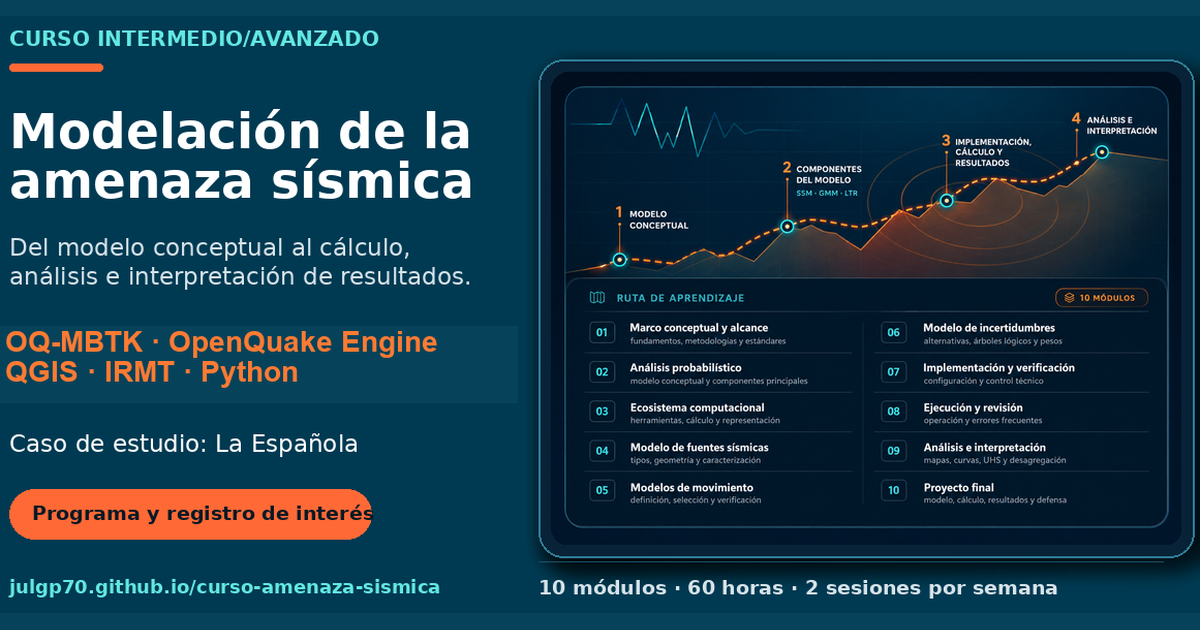
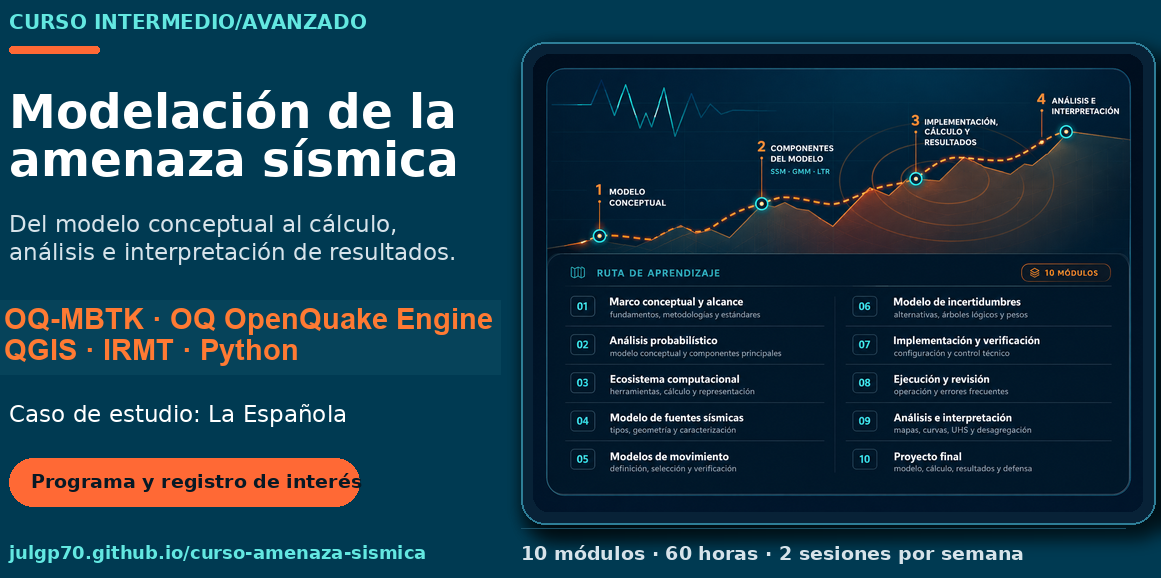
Prueba de sincronización con repositorio público joseghevia/haz_oq_rd@af8c8b0d50331897a41e4e679f7b26c28b6942ab

diff --git a/privacidad-y-cookies.html b/privacidad-y-cookies.html
@@ -12,7 +12,7 @@
   <title>Privacidad y cookies · Amenaza Sísmica</title>
   <link rel="stylesheet" href="css/styles.css?v=742fde1e8013">
 </head>
-<body class="legal-page" data-site-version="26_REVISION_FINAL_GEM_PRIVACIDAD_PRECONTRACTUAL">
+<body class="legal-page" data-site-version="24_PRIVACIDAD_IUBENDA_SERVICIOS_CONSENTIMIENTO">
 <a class="skip-link" href="#contenido">Saltar al contenido</a>
 <header class="legal-page-header">
   <div class="container legal-page-nav">
@@ -27,7 +27,7 @@
   <article class="container legal-document">
     <p class="kicker">Información legal</p>
     <h1>Privacidad y cookies</h1>
-    <p class="legal-updated"><span>Última actualización: 20 de julio de 2026</span><span class="legal-version">Versión: 2026-07-20-v1.2</span></p>
+    <p class="legal-updated"><span>Última actualización: 18 de julio de 2026</span><span class="legal-version">Versión: 2026-07-18-v1.1</span></p>
 <section>
   <h2>1. Responsable del tratamiento</h2>
   <p><strong>Julio Antonio García Peláez</strong>, profesional independiente con domicilio profesional en Trieste, Italia, P. IVA 01429970328, actividad 74.90.93 — Altre attività di consulenza tecnica n.c.a..</p>
@@ -36,35 +36,36 @@
 
 <section>
   <h2>2. Finalidad del registro de interés</h2>
-  <p>El formulario se utiliza exclusivamente para conocer si existe un número suficiente de personas interesadas en una posible edición del curso, comprender los perfiles y necesidades generales del grupo, valorar su viabilidad organizativa y contactar a quienes hayan manifestado interés sobre esta iniciativa concreta.</p>
+  <p>El formulario se utiliza exclusivamente para conocer si existe un número suficiente de personas interesadas en una posible edición del curso, comprender los perfiles y áreas de interés del grupo, valorar su viabilidad organizativa y contactar a quienes hayan manifestado interés sobre esta iniciativa concreta.</p>
   <div class="legal-callout"><strong>El envío del formulario no constituye matrícula, reserva, oferta contractual, compromiso de impartición ni obligación de pago.</strong></div>
 </section>
 
 <section>
   <h2>3. Datos tratados y carácter obligatorio u opcional</h2>
-  <p>Se solicitan como datos necesarios el nombre y los apellidos, el correo electrónico, el vínculo profesional con la República Dominicana, la experiencia previa relevante y la disponibilidad horaria. Estos datos permiten identificar y contactar a la persona, verificar la adecuación general del grupo destinatario y valorar la viabilidad de esta posible edición.</p>
-  <p>La institución, el cargo, el país de residencia, el área de formación, la experiencia con herramientas específicas, el interés principal y las observaciones son opcionales y pueden dejarse sin completar. No se solicitan categorías especiales de datos personales. Se ruega no incluir información médica, política, religiosa, biométrica, financiera ni otros datos sensibles en los campos de texto libre.</p>
+  <p>Podrán recogerse los datos que la persona facilite en el formulario, como nombre, correo electrónico, país, institución o actividad profesional, experiencia previa, disponibilidad e intereses relacionados con el curso.</p>
+  <p>Los campos identificados como obligatorios en Google Forms son necesarios para registrar y gestionar correctamente la manifestación de interés, en particular para identificar a la persona y poder contactarla. Si no se completan, el formulario no podrá enviarse o la manifestación de interés no podrá gestionarse correctamente. Los campos que no estén marcados como obligatorios son opcionales y pueden dejarse sin completar.</p>
+  <p>No se solicitan categorías especiales de datos personales. Se ruega no incluir información médica, política, religiosa, biométrica, financiera ni otros datos sensibles en los campos de texto libre.</p>
 </section>
 
 <section>
-  <h2>4. Base jurídica y constancia de información</h2>
-  <p>La base jurídica para registrar y gestionar la manifestación de interés es la adopción de medidas precontractuales solicitadas por la propia persona interesada, conforme al artículo 6.1.b del Reglamento (UE) 2016/679. El tratamiento se limita a atender esta solicitud concreta, valorar la posible organización de la edición y mantener las comunicaciones necesarias relacionadas con ella.</p>
+  <h2>4. Base jurídica y consentimiento</h2>
+  <p>La base jurídica es el consentimiento de la persona interesada, conforme al artículo 6.1.a del Reglamento (UE) 2016/679. El consentimiento debe expresarse mediante una acción positiva, específica e informada y puede retirarse en cualquier momento escribiendo a [email redacted], sin afectar a la licitud del tratamiento realizado con anterioridad.</p>
   <div class="legal-consent-box">
-    <strong>Confirmación de lectura correspondiente a esta versión</strong>
-    <p>He leído la Política de privacidad aplicable al registro de interés, versión 2026-07-20-v1.2.</p>
+    <strong>Texto del consentimiento correspondiente a esta versión</strong>
+    <p>He leído la Política de privacidad y cookies, versión 2026-07-18-v1.1, y consiento el tratamiento de mis datos para registrar mi manifestación de interés, valorar la viabilidad de esta posible edición del curso y recibir comunicaciones exclusivamente relacionadas con ella.</p>
   </div>
-  <p>La marca temporal de la respuesta, el texto de la casilla y la versión de esta política permiten documentar que la información de privacidad fue puesta a disposición y leída. Esta casilla no constituye un consentimiento para publicidad general, futuras ediciones no relacionadas u otras actividades. Cualquier finalidad distinta requerirá una información específica y, cuando corresponda, un consentimiento separado, opcional y no preseleccionado.</p>
+  <p>La marca temporal de la respuesta, la redacción de la casilla aceptada y la versión de esta política permiten documentar el consentimiento otorgado. La retirada del consentimiento implicará dejar de utilizar los datos para esta finalidad y suprimirlos cuando no exista otra obligación legal de conservación.</p>
 </section>
 
 <section>
   <h2>5. Google Forms</h2>
   <div class="legal-service-card">
     <h3>Servicio y finalidad</h3>
-    <p>El registro de interés se gestiona mediante Google Forms desde la cuenta personal <strong>[email redacted]</strong>. El uso de una cuenta gratuita responde al carácter preliminar y limitado de este sondeo. El servicio permite recoger las respuestas, almacenarlas y consultarlas para las finalidades descritas en esta política.</p>
+    <p>El registro de interés se gestiona mediante Google Forms desde la cuenta personal <strong>[email redacted]</strong>. El servicio permite recoger las respuestas, almacenarlas y consultarlas para las finalidades descritas en esta política.</p>
     <h3>Proveedor</h3>
     <p>Google indica que sus servicios de consumo para cuentas asociadas al Espacio Económico Europeo o Suiza son prestados generalmente por <strong>Google Ireland Limited</strong>. Si la cuenta estuviera asociada a otra región, el proveedor aplicable podría ser Google LLC u otra entidad indicada en las condiciones de Google.</p>
     <h3>Datos y funcionamiento</h3>
-    <p>Google puede tratar los datos introducidos en el formulario, la marca temporal de la respuesta y datos técnicos o de uso necesarios para prestar y proteger el servicio. El formulario no exige iniciar sesión con Google, no está incrustado en este sitio y se abre como página externa.</p>
+    <p>Google puede tratar los datos introducidos en el formulario, la marca temporal de la respuesta y datos técnicos o de uso necesarios para prestar y proteger el servicio. El formulario no está incrustado en este sitio: al pulsar el botón se abre una página externa de Google.</p>
     <p class="legal-policy-links"><a href="https://policies.google.com/privacy" target="_blank" rel="noopener noreferrer external">Política de privacidad de Google</a><a href="https://policies.google.com/terms" target="_blank" rel="noopener noreferrer external">Condiciones de Google</a><a href="https://policies.google.com/privacy/frameworks" target="_blank" rel="noopener noreferrer external">Marcos de transferencia de datos de Google</a></p>
   </div>
 </section>
@@ -81,26 +82,24 @@
 </section>
 
 <section>
-  <h2>7. Destinatarios, colaboradores y separación de accesos</h2>
-  <p>Durante la fase de registro de interés, el formulario y la hoja original de respuestas serán consultados únicamente por el responsable. Las notificaciones por correo indicarán solamente que existe una nueva respuesta y no reproducirán los datos personales enviados.</p>
-  <p>Cuando existan participantes confirmados, un asistente autorizado podrá acceder únicamente a una lista técnica separada con los datos mínimos necesarios para crear y gestionar cuentas: nombre y apellidos, correo electrónico, edición o grupo, nombre de usuario y estado de la cuenta. No tendrá acceso a motivaciones, experiencia, disponibilidad, observaciones, respuestas preliminares ni datos económicos. Actuará bajo instrucciones del responsable y sujeto a deber de confidencialidad.</p>
-  <p>Google y GitHub podrán tratar datos técnicos o alojados en sus servicios conforme a sus propias funciones y políticas. Los datos no se venderán ni se comunicarán al MIVHED, a GEM Foundation ni a otras instituciones para fines propios.</p>
+  <h2>7. Destinatarios y acceso</h2>
+  <p>Los datos del formulario serán consultados únicamente por el responsable y, cuando sea estrictamente necesario para la organización técnica del curso, por colaboradores autorizados sujetos a deber de confidencialidad. Google y GitHub podrán tratar datos técnicos o alojados en sus servicios conforme a sus propias funciones y políticas.</p>
+  <p>Los datos no se venderán ni se comunicarán al MIVHED, a GEM Foundation ni a otras instituciones para fines propios.</p>
 </section>
 
 <section>
   <h2>8. Transferencias internacionales</h2>
-  <p>El formulario de registro se gestiona mediante Google Forms y el sitio web está alojado en GitHub Pages. Estos proveedores pueden tratar determinados datos personales, incluidos los datos facilitados en el formulario y datos técnicos de navegación, en infraestructuras situadas fuera del Espacio Económico Europeo. Cuando resulta aplicable, declaran utilizar decisiones de adecuación, el Marco de Privacidad de Datos UE–EE. UU., cláusulas contractuales tipo u otras salvaguardias reconocidas por la normativa de protección de datos. Puede consultarse información actualizada en las políticas de privacidad de cada proveedor.</p>
+  <p>Google y GitHub operan infraestructuras internacionales y pueden tratar datos fuera del Espacio Económico Europeo. Estos proveedores declaran utilizar, cuando corresponde, decisiones de adecuación, el Marco de Privacidad de Datos UE–EE. UU., cláusulas contractuales tipo u otras salvaguardias previstas por la normativa aplicable. Los enlaces de los apartados anteriores permiten consultar la información vigente de cada proveedor.</p>
 </section>
 
 <section>
-  <h2>9. Conservación y eliminación</h2>
-  <p>Los datos se conservarán únicamente mientras sean necesarios para decidir si la edición puede organizarse y, en todo caso, durante un máximo de doce meses desde su recogida o desde la última comunicación relevante. Se eliminarán antes si se decide no impartir el curso o si dejan de ser necesarios.</p>
-  <p>La eliminación comprenderá las respuestas almacenadas en Google Forms, las hojas de Google Sheets, los correos antiguos que hubieran contenido respuestas completas, las exportaciones, los archivos locales y las papeleras correspondientes. Si el curso llega a organizarse, los datos estrictamente necesarios de los participantes confirmados se gestionarán por separado y con la información contractual, administrativa y fiscal que corresponda.</p>
+  <h2>9. Conservación</h2>
+  <p>Los datos se conservarán durante el tiempo necesario para decidir si la edición puede organizarse y, como máximo, durante doce meses desde la recogida o desde la última comunicación relevante. Después se eliminarán o anonimizarán. Si el curso llega a organizarse, cualquier matrícula o relación contractual se tramitará por separado y con información específica.</p>
 </section>
 
 <section>
   <h2>10. Derechos</h2>
-  <p>La persona interesada puede solicitar acceso, rectificación, supresión, limitación del tratamiento, portabilidad y oposición cuando proceda. Las solicitudes deben dirigirse a [email redacted].</p>
+  <p>La persona interesada puede solicitar acceso, rectificación, supresión, limitación del tratamiento, portabilidad, oposición cuando proceda y retirada del consentimiento. Las solicitudes deben dirigirse a [email redacted].</p>
   <p>También puede presentar una reclamación ante el Garante per la protezione dei dati personali de Italia. Las personas en la República Dominicana conservan además los derechos reconocidos por la Ley 172-13 sobre Protección de Datos Personales.</p>
 </section>
 
@@ -117,13 +116,13 @@
 
 <section>
   <h2>13. Seguridad y menores</h2>
-  <p>Se aplicarán medidas razonables de seguridad, incluida la autenticación en dos pasos, la restricción de accesos, el uso de credenciales protegidas, la separación de la lista técnica de participantes confirmados y la revisión periódica de las respuestas. El formulario no está dirigido a menores de 18 años.</p>
+  <p>Se aplicarán medidas razonables de seguridad, incluida la restricción de acceso a la cuenta, el uso de credenciales protegidas y la revisión periódica de las respuestas. El formulario no está dirigido a menores de 18 años.</p>
 </section>
 
 <section>
   <h2>14. Modificaciones y versión de la política</h2>
-  <p>Esta política podrá actualizarse para reflejar cambios legales, técnicos o en las actividades de tratamiento. Las modificaciones se publicarán en esta misma página indicando la nueva fecha y versión. Cuando un cambio afecte sustancialmente a personas ya registradas, se les informará directamente cuando sea necesario y razonablemente posible.</p>
-  <p><strong>Versión vigente: 2026-07-20-v1.2.</strong></p>
+  <p>Esta política podrá actualizarse para reflejar cambios legales, técnicos o en las actividades de tratamiento. Las modificaciones se publicarán en esta misma página indicando la nueva fecha y versión. Cuando un cambio afecte sustancialmente a un tratamiento basado en el consentimiento ya otorgado, se informará directamente a las personas afectadas cuando sea posible y se solicitará un nuevo consentimiento cuando resulte necesario.</p>
+  <p><strong>Versión vigente: 2026-07-18-v1.1.</strong></p>
 </section>
   </article>
 </main>

diff --git a/index.html b/index.html
@@ -12,8 +12,8 @@
   <meta property="og:title" content="Curso intermedio/avanzado de modelación de la amenaza sísmica">
   <meta property="og:description" content="Formación aplicada para construir, implementar, calcular, analizar e interpretar modelos de amenaza sísmica. Caso de estudio: La Española.">
   <meta property="og:url" content="https://julgp70.github.io/curso-amenaza-sismica/">
-  <meta property="og:image" content="https://julgp70.github.io/curso-amenaza-sismica/images/tarjeta-social-curso-20260717.png?v=2600">
-  <meta property="og:image:secure_url" content="https://julgp70.github.io/curso-amenaza-sismica/images/tarjeta-social-curso-20260717.png?v=2600">
+  <meta property="og:image" content="https://julgp70.github.io/curso-amenaza-sismica/images/tarjeta-social-curso-20260717.png?v=2013">
+  <meta property="og:image:secure_url" content="https://julgp70.github.io/curso-amenaza-sismica/images/tarjeta-social-curso-20260717.png?v=2013">
   <meta property="og:image:type" content="image/png">
   <meta property="og:image:width" content="1200">
   <meta property="og:image:height" content="630">
@@ -21,7 +21,7 @@
   <meta name="twitter:card" content="summary_large_image">
   <meta name="twitter:title" content="Curso intermedio/avanzado de modelación de la amenaza sísmica">
   <meta name="twitter:description" content="Formación aplicada para construir, implementar, calcular, analizar e interpretar modelos de amenaza sísmica. Caso de estudio: La Española.">
-  <meta name="twitter:image" content="https://julgp70.github.io/curso-amenaza-sismica/images/tarjeta-social-curso-20260717.png?v=2600">
+  <meta name="twitter:image" content="https://julgp70.github.io/curso-amenaza-sismica/images/tarjeta-social-curso-20260717.png?v=2013">
   <meta name="twitter:image:alt" content="Ruta de aprendizaje del curso de modelación de la amenaza sísmica: modelo conceptual, componentes SSM-GMM-LTR, implementación, cálculo, resultados, análisis e interpretación.">
   <link rel="canonical" href="https://julgp70.github.io/curso-amenaza-sismica/">
   <link rel="icon" href="icons/favicon.svg" type="image/svg+xml">
@@ -29,7 +29,7 @@
   <link rel="stylesheet" href="css/styles.css?v=742fde1e8013">
   <script defer src="js/script.js?v=e01c09464c0c"></script>
 </head>
-<body data-site-version="26_REVISION_FINAL_GEM_PRIVACIDAD_PRECONTRACTUAL" data-layout-version="25.5_AJUSTE_POSICION_PANELES">
+<body data-site-version="24_PRIVACIDAD_IUBENDA_SERVICIOS_CONSENTIMIENTO" data-layout-version="25.5_AJUSTE_POSICION_PANELES">
 <a class="skip-link" href="#contenido">Saltar al contenido</a>
 
 <header class="site-header" data-header>
@@ -72,7 +72,7 @@
         <p class="eyebrow"><span></span>Curso virtual · Nivel intermedio/avanzado · Caso de estudio: La Española</p>
         <h1>Modelación de la amenaza sísmica con herramientas de código abierto</h1>
         <p class="hero-subtitle">Del conocimiento sismotectónico a un modelo trazable, reproducible y defendible</p>
-        <p class="hero-intro">Fortalece tu capacidad para tomar decisiones técnicas sólidas durante la creación de un modelo de amenaza sísmica. Aprenderás a transformar información tectónica y sismológica en un modelo complejo mediante OQ-MBTK y OpenQuake Engine, herramientas de código abierto del ecosistema OpenQuake impulsado por GEM Foundation.</p>
+        <p class="hero-intro">Fortalece tu capacidad para tomar decisiones técnicas sólidas durante la creación de un modelo de amenaza sísmica. Aprenderás a transformar información tectónica y sismológica en un modelo complejo mediante herramientas del OQ-MBTK y OpenQuake Engine, herramientas del ecosistema OQ OpenQuake desarrollado por GEM Foundation.</p>
 
         <div class="tool-strip" aria-label="Herramientas principales">
 <span>OQ-MBTK</span><span>OpenQuake Engine</span><span>Python</span><span>QGIS + IRMT</span>        </div>
@@ -175,7 +175,7 @@
         <article class="challenge-card reveal">
           <span class="card-number">03</span>
           <h3>Capacidades insuficientes para revisar y actualizar</h3>
-          <p>Cuando la formación se limita al uso básico del motor de cálculo, la construcción, implementación y actualización de los modelos continúa dependiendo de especialistas externos. Esto reduce la autonomía técnica y retrasa la incorporación de nueva evidencia científico-técnica.</p>
+          <p>Cuando la formación se limita al uso básico del motor de cálculo, la construcción, adaptación y actualización de los modelos continúa dependiendo de especialistas externos. Esto reduce la autonomía técnica y retrasa la incorporación de nueva evidencia.</p>
         </article>
       </div>
 
@@ -232,7 +232,7 @@
 
       <aside class="license-disclosure reveal" aria-label="Información sobre herramientas y licencias">
         <strong>Herramientas y datos del curso</strong>
-        <p>El curso utilizará materiales didácticos originales y recursos de terceros únicamente conforme a sus licencias aplicables.</p>
+        <p>El curso utilizará una base de datos didáctica original y modelos de entrenamiento creados específicamente para la formación. No se utilizarán ni redistribuirán modelos o datasets de GEM sujetos a licencias NC o personalizadas.</p>
         <p>OQ OpenQuake y GEM Global Earthquake Model son marcas registradas de GEM Foundation. Las herramientas de terceros conservan sus propias licencias.</p>
       </aside>
     </div>
@@ -425,7 +425,7 @@
       <span>P. IVA 01429970328</span>
       <a href="mailto:[email redacted]">[email redacted]</a>
     </div>
-    <p class="legal-footer-small">El código propio del sitio no utiliza cookies de analítica, publicidad o perfilado. El curso utilizará materiales didácticos originales y recursos de terceros únicamente conforme a sus licencias aplicables.</p>
+    <p class="legal-footer-small">El código propio del sitio no utiliza cookies de analítica, publicidad o perfilado. El curso utilizará una base de datos didáctica original y modelos de entrenamiento creados específicamente para la formación. No se utilizarán ni redistribuirán modelos o datasets de GEM sujetos a licencias NC o personalizadas.</p>
   </div>
 </footer>
 </body>

diff --git a/propiedad-intelectual-y-licencias.html b/propiedad-intelectual-y-licencias.html
@@ -12,7 +12,7 @@
   <title>Propiedad intelectual y licencias · Amenaza Sísmica</title>
   <link rel="stylesheet" href="css/styles.css?v=742fde1e8013">
 </head>
-<body class="legal-page" data-site-version="26_REVISION_FINAL_GEM_PRIVACIDAD_PRECONTRACTUAL">
+<body class="legal-page" data-site-version="24_PRIVACIDAD_IUBENDA_SERVICIOS_CONSENTIMIENTO">
 <a class="skip-link" href="#contenido">Saltar al contenido</a>
 <header class="legal-page-header">
   <div class="container legal-page-nav">
@@ -27,7 +27,7 @@
   <article class="container legal-document">
     <p class="kicker">Información legal</p>
     <h1>Propiedad intelectual y licencias</h1>
-    <p class="legal-updated"><span>Última actualización: 20 de julio de 2026</span><span class="legal-version">Versión: 2026-07-20-v1.2</span></p>
+    <p class="legal-updated"><span>Última actualización: 18 de julio de 2026</span><span class="legal-version">Versión: 2026-07-18-v1.1</span></p>
 <section>
   <h2>1. Contenido propio</h2>
   <p>Salvo indicación expresa en contrario, los textos, estructura didáctica, gráficos originales, identidad visual, ruta de aprendizaje, flyers y materiales creados para este curso son titularidad de Julio Antonio García Peláez.</p>
@@ -35,8 +35,8 @@
 </section>
 <section>
   <h2>2. Herramientas de código abierto</h2>
-  <p>OpenQuake Engine y OQ-MBTK se mencionan como herramientas utilizadas en la formación. Su código fuente se distribuye bajo GNU Affero General Public License v3.0. Su uso, incluido el uso comercial, está permitido conforme a sus respectivas condiciones de licencia. Cualquier modificación, integración o redistribución debe respetar la AGPL v3.0 y conservar los avisos aplicables.</p>
-  <p>QGIS, Python y otras herramientas conservan sus respectivas licencias. Este sitio no redistribuye binarios ni código fuente de esas herramientas; remite a las fuentes oficiales cuando resulta necesario.</p>
+  <p>OpenQuake Engine y OQ-MBTK se mencionan como herramientas utilizadas en la formación. GEM Foundation informa de que su código fuente se distribuye bajo GNU Affero General Public License v3.0 y de que el uso de las versiones compiladas no está restringido, incluido el uso comercial. Las modificaciones, integraciones o redistribuciones del código deben respetar la AGPL y conservar los avisos correspondientes.</p>
+  <p>QGIS, Python y otras herramientas conservan sus respectivas licencias. Este sitio no redistribuye sus binarios ni su código fuente; remite a las fuentes oficiales cuando sea necesario.</p>
 </section>
 <section>
   <h2>3. Marcas</h2>
@@ -45,9 +45,9 @@
 </section>
 <section>
   <h2>4. Datos y modelos utilizados en el curso</h2>
-  <div class="legal-callout"><strong>El curso utilizará materiales didácticos originales y recursos de terceros únicamente conforme a sus licencias aplicables.</strong></div>
-  <p>La base de datos didáctica y los modelos de entrenamiento serán originales, sintéticos o elaborados específicamente para la formación. Antes de incorporar cualquier recurso de terceros se verificarán su fuente, autoría, licencia y compatibilidad con el uso previsto.</p>
-  <p>Ningún archivo de terceros se incorporará o redistribuirá por defecto sin comprobar previamente sus condiciones aplicables.</p>
+  <div class="legal-callout"><strong>El curso utilizará una base de datos didáctica original y modelos de entrenamiento creados específicamente para la formación. No se utilizarán ni redistribuirán modelos o datasets de GEM sujetos a licencias NC o personalizadas.</strong></div>
+  <p>La base de datos didáctica será original, sintética o elaborada específicamente por el instructor para permitir la construcción de un modelo de entrenamiento. No derivará de un modelo de GEM con licencia CC BY-NC-SA, licencia personalizada o cualquier otra restricción incompatible con la formación.</p>
+  <p>Si en el futuro se utilizara material de terceros, se identificarán previamente la fuente, la autoría y la licencia aplicable. Ningún archivo de terceros se incorporará por defecto a los materiales del curso sin verificación.</p>
 </section>
 <section>
   <h2>5. Código y materiales entregados</h2>

diff --git a/aviso-legal.html b/aviso-legal.html
@@ -12,7 +12,7 @@
   <title>Aviso legal · Amenaza Sísmica</title>
   <link rel="stylesheet" href="css/styles.css?v=742fde1e8013">
 </head>
-<body class="legal-page" data-site-version="26_REVISION_FINAL_GEM_PRIVACIDAD_PRECONTRACTUAL">
+<body class="legal-page" data-site-version="24_PRIVACIDAD_IUBENDA_SERVICIOS_CONSENTIMIENTO">
 <a class="skip-link" href="#contenido">Saltar al contenido</a>
 <header class="legal-page-header">
   <div class="container legal-page-nav">
@@ -27,7 +27,7 @@
   <article class="container legal-document">
     <p class="kicker">Información legal</p>
     <h1>Aviso legal</h1>
-    <p class="legal-updated"><span>Última actualización: 20 de julio de 2026</span><span class="legal-version">Versión: 2026-07-20-v1.2</span></p>
+    <p class="legal-updated"><span>Última actualización: 18 de julio de 2026</span><span class="legal-version">Versión: 2026-07-18-v1.1</span></p>
 <section>
   <h2>1. Titular del sitio</h2>
   <p><strong>Julio Antonio García Peláez</strong> · Trieste, Italia · P. IVA 01429970328 · 74.90.93 — Altre attività di consulenza tecnica n.c.a. · <a href="mailto:[email redacted]">[email redacted]</a>.</p>